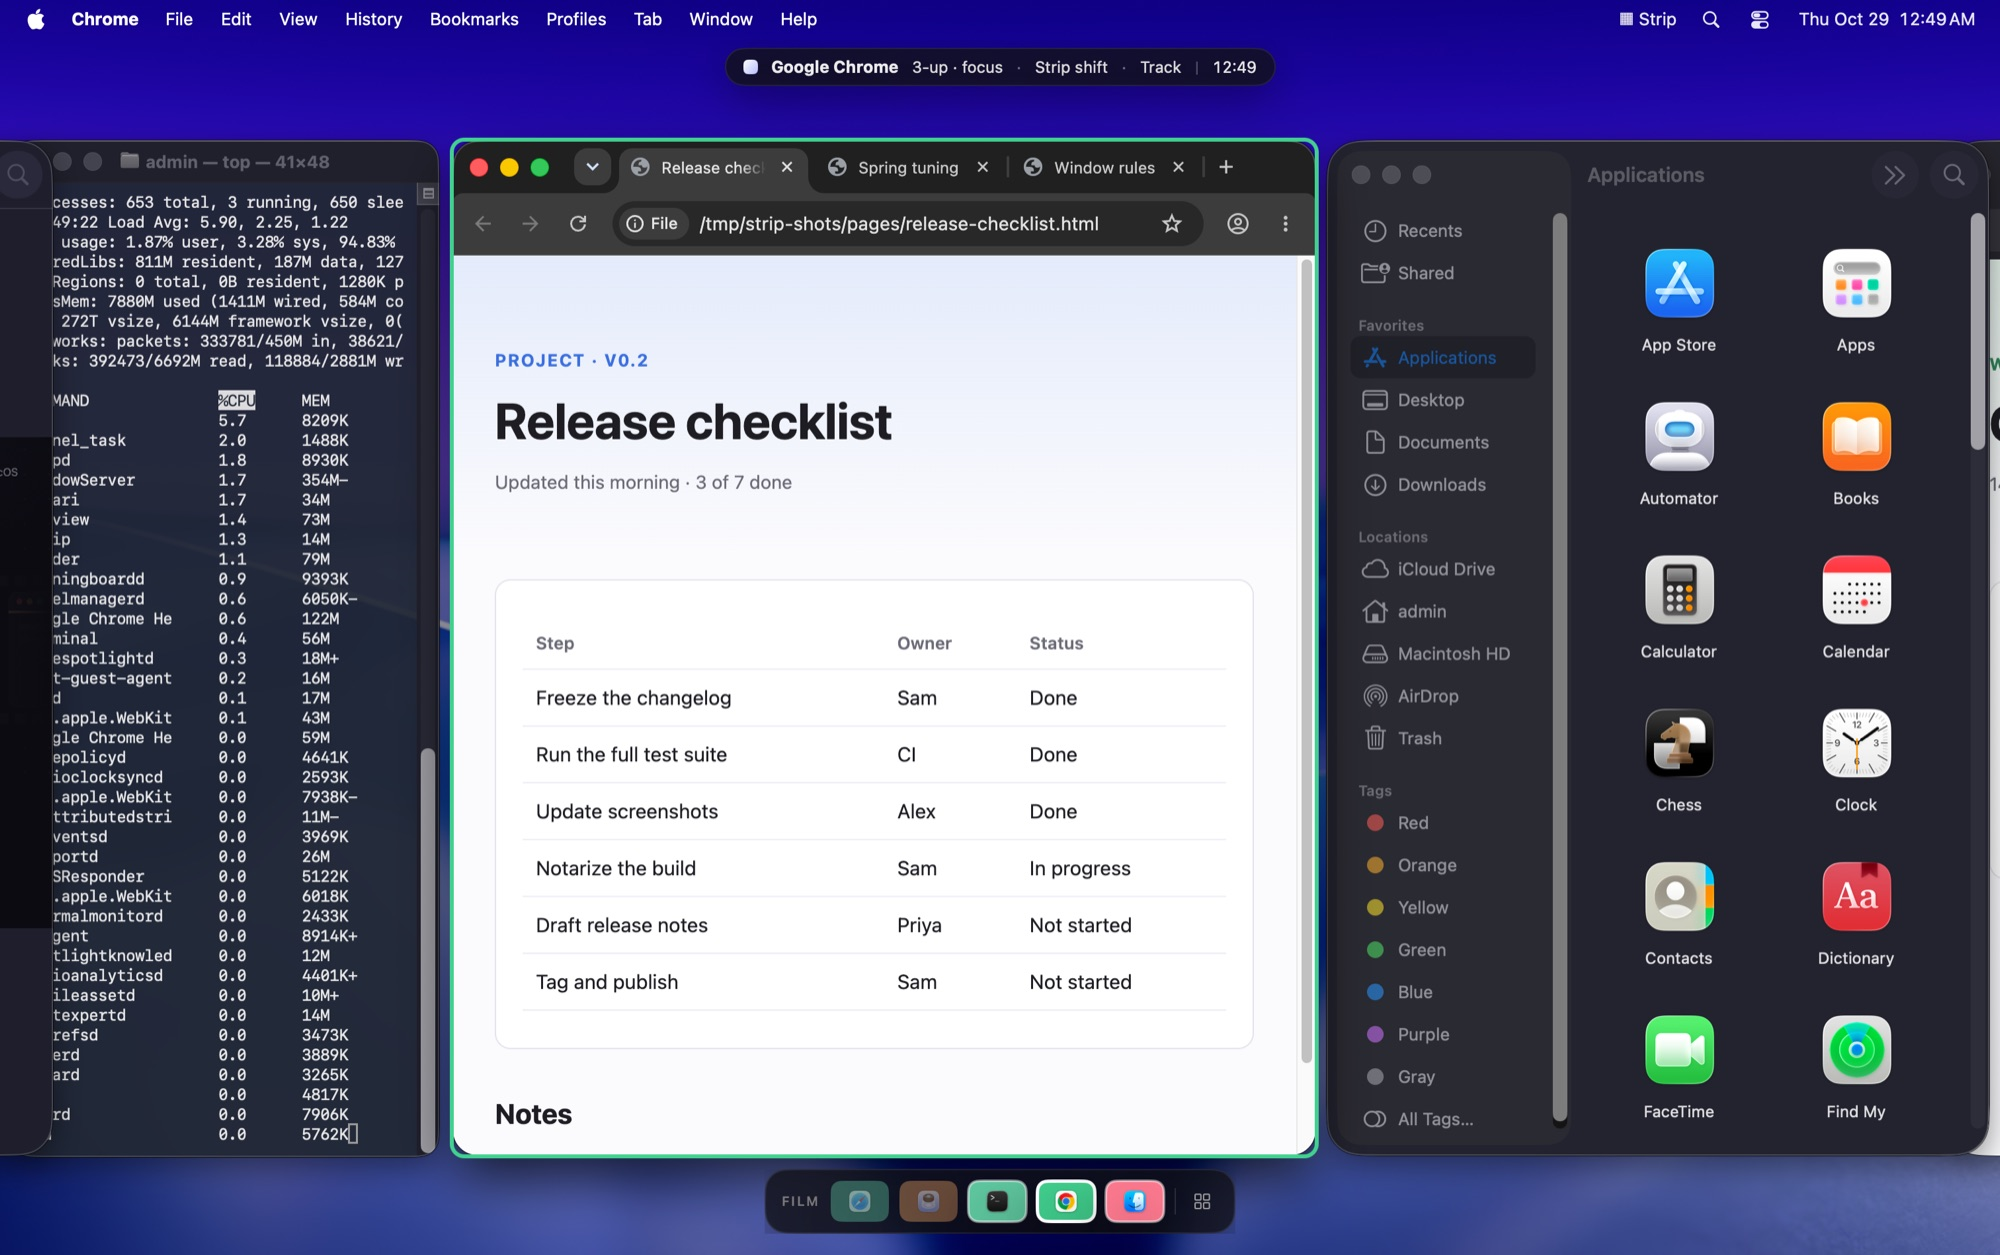
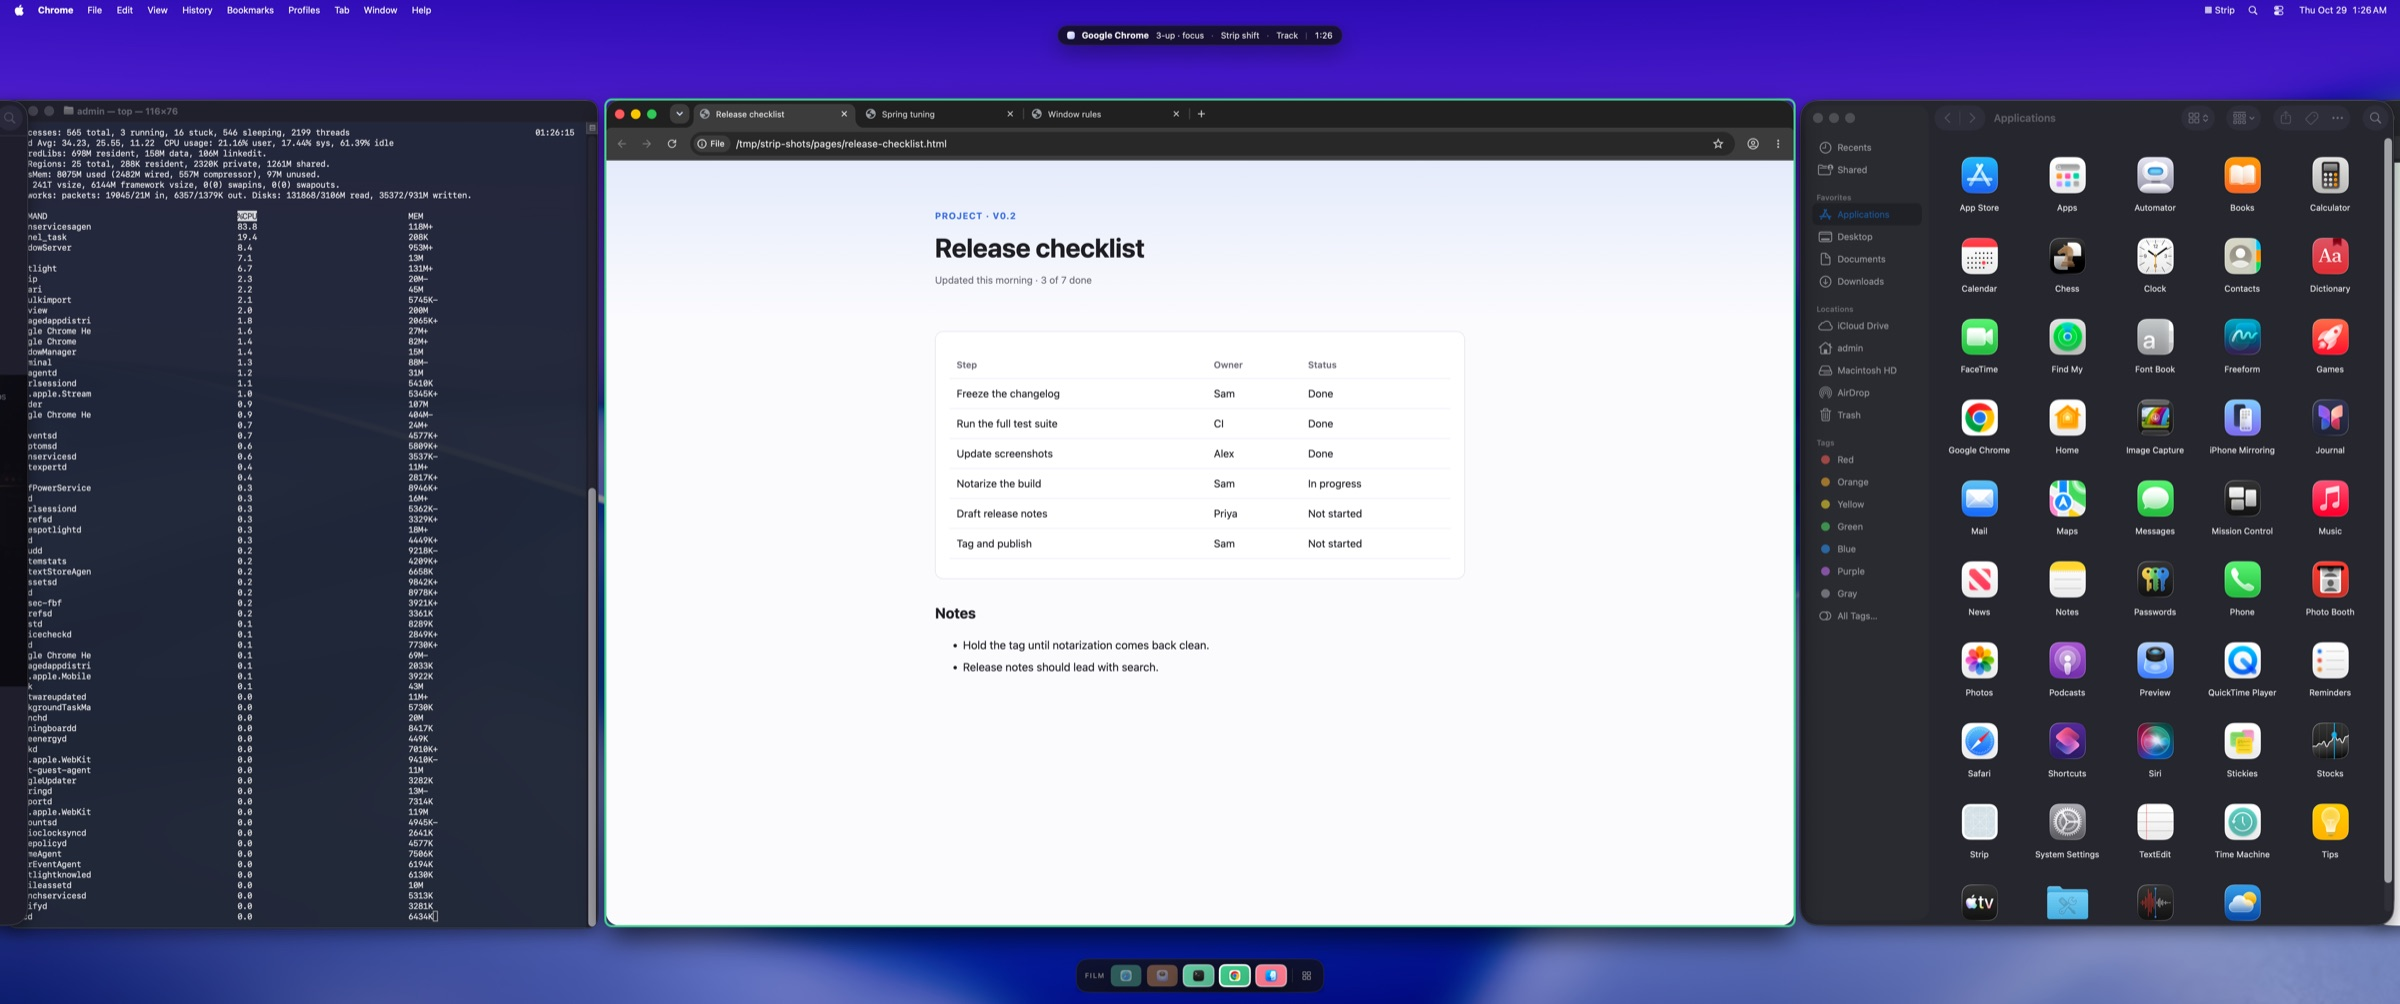
feat: ultrawide screenshots, plus monocle and pinned layouts (#5)
The screenshots came from a 1512pt-wide display, where 3-up clips a side
window, and they showed only the 3-up layout. Worse, strip-e2e refits its
display to its window on the host, so the capture size depended on how
big that window happened to be.

Screenshots now come from strip-shots: a clone of strip-e2e (same grants
and guest signing identity) with a fixed 3440×1440pt display and refit
off, which is Strip's target ultrawide. The e2e VM is unchanged.

New shots:
- monocle (⌃⌥1): one window centered, its neighbors parked at the edges.
- pinned (⌃⌥P): Finder pinned on the right while the film rolls Safari
  into the center; the status pill reads Hybrid.

publish.sh frames shots two ways. Layout shots (strip, monocle, pinned)
keep the whole ultrawide at 2400×1004. UI shots (overview, search, help)
are a centered 1600×900pt crop at 2000×1125, since those panels keep
their size on any display and were tiny in the full frame.

Site: the hero spans the container, and monocle and pinned sit in a row
under it (stacked on phones). The README shows them side by side. The
skill, Makefile and site README point at strip-shots.

diff --git a/site/index.html b/site/index.html
@@ -97,16 +97,28 @@
     </section>
 
     <!-- Showcase: a real capture, so the concept art below has something true to point at ------->
-    <section class="showcase" aria-label="Strip running on macOS">
+    <section id="screenshots" class="showcase" aria-label="Strip running on macOS">
       <div class="container">
         <figure class="shot shot--hero">
-          <img src="assets/img/screenshots/strip.jpg" width="2000" height="1255"
-               alt="A Mac desktop managed by Strip in three-up layout: Chrome in the center slot with a green focus ring, a Terminal running top on the left, a Finder window on the right, a status pill at the top and the film rail of app icons at the bottom.">
+          <img src="assets/img/screenshots/strip.jpg" width="2400" height="1004"
+               alt="An ultrawide Mac desktop managed by Strip in three-up layout: Chrome in the wide center slot with a green focus ring, a Terminal running top on the left, a Finder window on the right, a status pill at the top and the film rail of app icons at the bottom.">
           <figcaption>
-            Three&#8209;up on a real Mac. The focused window owns the center slot, its neighbors
-            fill the sides, and the film rail at the bottom shows every window on the strip.
+            Three&#8209;up on a 3440&times;1440 ultrawide. The focused window owns the center slot,
+            its neighbors fill the sides, and the film rail at the bottom shows every window on the strip.
           </figcaption>
         </figure>
+        <div class="gallery gallery--layouts">
+          <figure class="shot">
+            <img src="assets/img/screenshots/monocle.jpg" width="2400" height="1004" loading="lazy"
+                 alt="Strip in monocle layout: one Chrome window centered on the ultrawide, its neighbors parked just past the screen edges.">
+            <figcaption>Monocle (<kbd>⌃⌥1</kbd>): one window, centered. Its neighbors wait just past the edges.</figcaption>
+          </figure>
+          <figure class="shot">
+            <img src="assets/img/screenshots/pinned.jpg" width="2400" height="1004" loading="lazy"
+                 alt="Strip with the right slot pinned: Finder stays on the right while the film has rolled Safari into the center and Chrome to the left; the status pill reads Hybrid.">
+            <figcaption>Pinned (<kbd>⌃⌥P</kbd>): Finder holds the right slot while Safari and Chrome roll past it.</figcaption>
+          </figure>
+        </div>
       </div>
     </section>
 
@@ -255,7 +267,7 @@
           </ul>
         </div>
         <figure class="shot">
-          <img src="assets/img/screenshots/search.jpg" width="2000" height="1255" loading="lazy"
+          <img src="assets/img/screenshots/search.jpg" width="2000" height="1125" loading="lazy"
                alt="Strip's Overview in search mode: the query “spring” lists a Chrome tab, Spring tuning, and a Safari tab, Spring onion pancakes. The grid has narrowed to those two windows, and Chrome's card previews the selected tab.">
           <figcaption>“spring” finds a tab in Chrome and one in Safari; the selected tab previews in its card.</figcaption>
         </figure>
@@ -271,12 +283,12 @@
         </header>
         <div class="gallery">
           <figure class="shot">
-            <img src="assets/img/screenshots/overview.jpg" width="2000" height="1255" loading="lazy"
+            <img src="assets/img/screenshots/overview.jpg" width="2000" height="1125" loading="lazy"
                  alt="Strip's Overview: live thumbnails of every window on the film, laid out in rows over a blurred desktop, with the active window outlined.">
             <figcaption>Overview (<kbd>⌃⌥Space</kbd>): every window on the film as a live thumbnail.</figcaption>
           </figure>
           <figure class="shot">
-            <img src="assets/img/screenshots/help.jpg" width="2000" height="1255" loading="lazy"
+            <img src="assets/img/screenshots/help.jpg" width="2000" height="1125" loading="lazy"
                  alt="Strip's keyboard help overlay listing every shortcut over a dimmed desktop.">
             <figcaption>Keyboard help (<kbd>⌃⌥/</kbd>): every shortcut, one keypress away.</figcaption>
           </figure>

diff --git a/site/assets/css/site.css b/site/assets/css/site.css
@@ -560,8 +560,10 @@ code { font-family: var(--font-mono); font-size: 0.9em; }
 .shot figcaption { color: var(--text-muted); font-size: 0.9rem; text-wrap: pretty; }
 
 .showcase { margin-top: clamp(-72px, -6vw, -40px); padding-bottom: clamp(48px, 7vw, 88px); position: relative; }
-.shot--hero { max-width: 1000px; margin-inline: auto; }
-.shot--hero figcaption { text-align: center; }
+.shot--hero figcaption { max-width: 720px; margin-inline: auto; text-align: center; }
+/* Two ultrawide layout shots under the hero. */
+.gallery--layouts { margin: 32px 0 0; grid-template-columns: repeat(auto-fit, minmax(420px, 1fr)); }
+@media (max-width: 900px) { .gallery--layouts { grid-template-columns: 1fr; } }
 
 .split { display: grid; gap: clamp(28px, 4vw, 48px); align-items: center; }
 @media (min-width: 960px) {

diff --git a/.claude/skills/screenshots/SKILL.md b/.claude/skills/screenshots/SKILL.md
@@ -1,40 +1,64 @@
 ---
 name: screenshots
-description: Recapture Strip's website and README screenshots (3-up strip, Overview, window & tab search with tab peek, keyboard help) from a RELEASE build in the strip-e2e Tart VM, check them by eye, and publish the web JPEGs. Use when a UI change makes the published screenshots stale, when adding a new shot, or when asked for fresh screenshots or marketing images. Never captures the host's live Strip.
+description: Recapture Strip's website and README screenshots (3-up hero, monocle, pinned, Overview, window & tab search with tab peek, keyboard help) from a RELEASE build in the strip-shots Tart VM (fixed 3440×1440 ultrawide), check them by eye, and publish the web JPEGs. Use when a UI change makes the published screenshots stale, when adding a new shot, or when asked for fresh screenshots or marketing images. Never captures the host's live Strip.
 ---
 
 # screenshots
 
-`make screenshots` builds a release bundle, pushes it into the `strip-e2e` VM, re-signs it there,
+`make screenshots` builds a release bundle, pushes it into the `strip-shots` VM, re-signs it there,
 stages a fixed desktop (Safari, Preview, Terminal, Chrome, Finder, with local pages as browser tabs),
-drives Strip into each state and screencaptures it, then writes 2000px JPEGs to
+drives Strip into each state and screencaptures it, then writes JPEGs to
 `site/assets/img/screenshots/`. The website (`site/index.html`) and `README.md` both use those
 files, so one run updates both.
+
+## The VM
+
+`strip-shots` is a clone of `strip-e2e` (same grants, same guest signing identity) with a **fixed
+3440×1440pt display** — Strip's target ultrawide. `strip-e2e` refits its display to its window, so
+shots taken there change size with the window. One-time setup (stop strip-e2e first for a clean copy):
+
+```sh
+tart clone strip-e2e strip-shots
+tart set strip-shots --display 3440x1440pt --no-display-refit --random-mac
+```
+
+The user starts it in their own terminal: `tart run strip-shots`. A tool-driven `tart run` never
+shows its window and the guest needs a real display. If it isn't running, ask; never capture on the
+host.
 
 ## Run
 
 ```sh
-make screenshots                              # every shot (~1.5 min)
+make screenshots                              # every shot (~2 min)
 make screenshots SHOTS="search help"          # a subset
 SHOT_HEIGHT=0.80 make screenshots             # window height (0.05 steps; default 0.85)
 scripts/screenshots/capture.sh --no-build --raw-only strip   # iterate on the scene: reuse the build, skip publishing
 scripts/screenshots/publish.sh strip          # publish a raw capture you've checked
 ```
 
-Shots: `strip` (hero, 3-up), `overview`, `search` (Chrome tab peeked), `search-peek` (Safari tab
-peeked; not published by default), `help`. Raw full-resolution PNGs land in
-`.build/screenshots/raw/`, and the run's Strip log in `.build/screenshots/strip.log`.
+Shots: `strip` (hero, 3-up), `monocle`, `pinned` (Finder pinned right, the film rolled), `overview`,
+`search` (Chrome tab peeked), `search-peek` (Safari tab peeked; not published by default), `help`.
+Raw 6880×2880 PNGs land in `.build/screenshots/raw/`, and the run's Strip log in
+`.build/screenshots/strip.log`.
+
+`publish.sh` frames them two ways: layout shots (`strip`, `monocle`, `pinned`) keep the whole
+ultrawide (2400×1004), because the width is the point; UI shots (`overview`, `search`, `help`) are a
+centered 1600×900pt crop (2000×1125), because those panels keep their size on any display and would
+be tiny in the full frame. If dimensions change, update the `width`/`height` attributes in
+`site/index.html`.
 
 ## Always look before publishing
 
 Metrics can't tell a good shot from a broken one. Downscale each raw PNG and Read it:
-`sips -Z 1400 .build/screenshots/raw/strip.png --out .build/screenshots/view/strip.png`. Check:
+`sips -Z 1600 .build/screenshots/raw/strip.png --out .build/screenshots/view/strip.png`. Check:
 - **No system dialog** over the content (see below).
 - **Overview cards show thumbnails**, not accent placeholders.
 - **search** shows the "Tab preview" caption and the peeked page in Chrome's card.
-- **The hero's windows fit**: grep the log for `constraint-learned` / `constraint-unsatisfiable`.
+- **pinned**: the status pill reads "Hybrid" and Finder is still on the right.
+- **The windows fit**: grep the log for `constraint-learned` / `constraint-unsatisfiable`.
 
-Then publish, and update the `alt` text in `site/index.html` and `README.md` if the content changed.
+Then publish, check the site with `scripts/site/preview.sh screenshots search features`, and update
+the `alt` text in `site/index.html` and `README.md` if the content changed.
 
 ## Known traps (each cost a run)
 
@@ -47,19 +71,19 @@ Then publish, and update the `alt` text in `site/index.html` and `README.md` if 
   app's minimum width (a 60% resize became Terminal `min=905`). `scene.sh` stages and positions every
   window *before* launching Strip; the film order is the windows' left-to-right on-screen order.
 - **Window height 0.85 is the ceiling.** Strip's default (1.0) puts the status pill over the windows'
-  tab bars and the rail over their content; 0.90 still lets the rail cover the bottom ~16px; 0.80
+  tab bars and the rail over their content; 0.90 lets the rail cover the bottom of the windows; 0.80
   leaves visibly empty bands. Windows are centered vertically, so each step moves both edges.
-- **Real minimum widths on the VM's 1512pt display:** Finder 501, Chrome 500, Safari 574, Preview 708.
-  Only Terminal fits a narrow side slot, which is why Preview and Safari stay parked in the hero.
+- **Small displays clip 3-up.** On a 1512pt-wide display the real minimum widths (Finder 501,
+  Chrome 500, Safari 574, Preview 708) don't fit three slots, and a side window spills off screen.
+  That's why the shots use the ultrawide VM.
 - **Typing never peeks a tab.** Peek follows ↑/↓ only, so the scene presses ↓ then ↑.
 - **Parked windows can't be captured.** The scene opens the Overview once with each window on
   screen, to warm the thumbnail cache, before the real Overview shot.
-- If the VM isn't running, ask the user to `tart run strip-e2e`. Don't capture on the host.
 
 ## Adding a shot
 
 Add a `wants <name>` block to `scripts/screenshots/scene.sh`. Drive Strip with the e2e driver
-(`send_hotkey`, `send_key`, `type_text`, `click_menu`), wait on a log line with `wait_for_line`
-rather than a bare sleep where one exists, then call `shot <name>`. Add it to the default `SHOTS`
-list, reference `assets/img/screenshots/<name>.jpg` from the page, and run
-`make screenshots SHOTS=<name>`.
+(`send_hotkey`, `send_key`, `type_text`, `click_menu`), wait on a log line with `wait_for_line` /
+`wait_for_cols` rather than a bare sleep where one exists, then call `shot <name>`. Add it to the
+default `SHOTS` list and to `publish.sh`'s default names (pick its framing there), reference
+`assets/img/screenshots/<name>.jpg` from the page, and run `make screenshots SHOTS=<name>`.

diff --git a/README.md b/README.md
@@ -22,7 +22,16 @@ parked  ←  [ window ] [ window ] [ FOCUSED ] [ window ] [ window ]  →  parke
 Strip is built with Swift and AppKit. It uses macOS Accessibility for window control and does not
 require disabling System Integrity Protection or installing a scripting addition.
 
-![Strip in three-up layout: Chrome in the center slot with a green focus ring, Terminal on the left, Finder on the right, the status pill at the top and the film rail at the bottom.](site/assets/img/screenshots/strip.jpg)
+![Strip in three-up layout on a 3440×1440 ultrawide: Chrome in the center slot with a green focus ring, Terminal on the left, Finder on the right, the status pill at the top and the film rail at the bottom.](site/assets/img/screenshots/strip.jpg)
+
+<p>
+  <img src="site/assets/img/screenshots/monocle.jpg" width="49%"
+       alt="Monocle layout: one Chrome window centered, its neighbors parked just past the screen edges.">
+  <img src="site/assets/img/screenshots/pinned.jpg" width="49%"
+       alt="Pinned layout: Finder holds the right slot while Safari and Chrome roll past it.">
+</p>
+
+*Left: monocle (<kbd>⌃⌥1</kbd>). Right: Finder pinned (<kbd>⌃⌥P</kbd>) while the film rolls.*
 
 ## What It Does
 

diff --git a/site/README.md b/site/README.md
@@ -41,10 +41,11 @@ Opening `index.html` directly from disk also works.
 ## Images
 
 **Screenshots** (`assets/img/screenshots/*.jpg`, also used by the repo README) are real captures of a
-release build in the `strip-e2e` Tart VM. Recapture them after any visible UI change:
+release build in the `strip-shots` Tart VM (a fixed 3440×1440 ultrawide clone of `strip-e2e`).
+Recapture them after any visible UI change:
 
 ```bash
-make screenshots                       # needs the VM running: tart run strip-e2e
+make screenshots                       # needs the VM running: tart run strip-shots
 make screenshots SHOTS="search help"   # a subset
 ```
 
